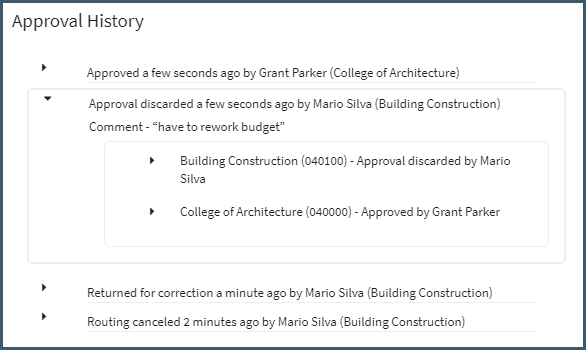
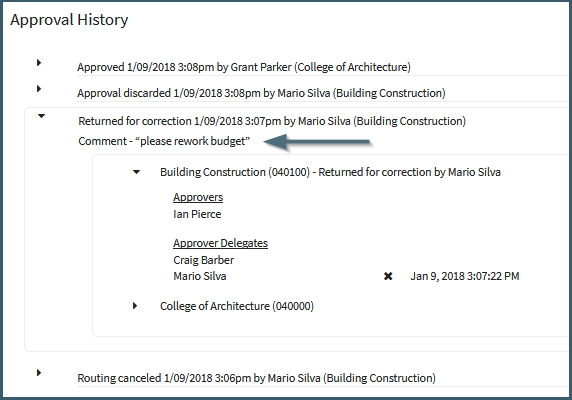
Updated Summit-docs for 2.2.0

diff --git a/docs/releaseNotes.md b/docs/releaseNotes.md
@@ -3,22 +3,22 @@
 - **Approve and Return buttons on Approvals**
     - Separate buttons are now provided for approving or returning an approval.  
     ![Approval Header](images/releaseNotes/approvalHeader.jpg)
-    - **"Approve" button**
+    - **"Approve" button** - [Click for more Info](Approvals/Approving.md#approving-the-proposal)
         -  Now as an approver, to approve you'll click the "Approve" button and click "Approve" in the approval modal that appears.  If you are approving on behalf of 2 or more organizations, you'll need to check the organizations you are approving on behalf of.
-    - **"Return for Correction" button**
+    - **"Return for Correction" button** - [Click for more Info](Approvals/Canceling.md#return-for-correction)
         - Now an approver can send an approval back to the proposal team for correction.  By clicking the "Return For Correction" button, a modal will appear asking for the reason why the approver would like to return the approval back for correction.  Once a comment is written, the "Return for Correction" button will become enabled.  Once pressed, it will take the proposal out of routing and give the proposal team a chance to correct any deficiencies that were noted by the approver. Then once the proposal team is ready, they can put the proposal back into routing for the approvers to review again, then approve/return the approval.
 - **Email Notifications for Approvals**
     - **Before update:** Email notifications went to approvers when a proposal was ready for approval at their stage in the routing chain.
     - **After update:** Email notifications still go out when a proposal is ready to be approved at a specific stage in the routing chain, but also if an approval is canceled everyone that has been previously notified of an approval, will be notified that the approval has been canceled and the reason for the cancelation displayed in the email notification.
-- **Approval History**
+- **Approval History** - [Click for more Info](Approvals/Approving.md#approval-history)
     - All past routing actions will be logged in a new section within the editor and approval called the Approval History.  This section is located in the Proposal Management of the Editor or in the Approval.  The Approval Decisions section will still display, but is only for routing currently being done.
     ![Approval History](images/approvals/Approving_approvalHistory.jpg)
+- **IRB question update**
+    - The IRB question has been modified to now read "Does the work involve human subjects research (e.g., surveys, observation, lab or clinical research, analysis of existing data/specimens)?".  It is still located in the Compliance section of the editor.
+    - The question has also been added to the Initiator screen when going through the Get Started wizard.  This way if the sponsor or prime sponsor has the IRB keyword (mostly NIH related sponsors), as well as having the IRB question answered "Yes" or "Don't Know", an email will be sent to the IRB team to follow-up with the Proposal Team regarding new NIH rules on Human Subjects.
 - **Credit Organization**
     - "Responsible Organization" has been renamed "Credit Organization" in the Proposal Team section of Personnel of the Editor.
     ![Credit Organization](images/releaseNotes/creditOrg.jpg)
-- **IRB question**
-    - The IRB question has been modified to now read "Does the work involve human subjects research (e.g., surveys, observation, lab or clinical research, analysis of existing data/specimens)?".  It is still located in the Compliance section of the editor.
-    - The question has also been added to the Initiator screen when going through the Get Started wizard.  This way if the sponsor or prime sponsor has the IRB keyword (mostly NIH related sponsors), as well as having the IRB question answered "Yes" or "Don't Know", an email will be sent to the IRB team to follow-up with the Proposal Team regarding new NIH rules on Human Subjects.
 <br>
 
 # Release 2.1.0 - September 2017

diff --git a/docs/Approvals/Approving.md b/docs/Approvals/Approving.md
@@ -75,7 +75,7 @@ The file log lists all files attached to the proposal.  The most recent version 
 ![File Log Modal](../images/approvals/AppPro_FileLog.jpg)
 
 ## Approving the Proposal
-Approvers log in to Summit and see a list of proposals waiting for their approval in "Approvals / To Be Approved."  Choosing the Proposal in the Summary Pane will display a read-only view of the basic Proposal details in the Editor. To approve the proposal, the User starts by clicking the green "Approve" button in the top right of the approval.  
+Approvers log in to Summit and see a list of proposals waiting for their approval in "Approvals / To Be Approved."  Choosing the Proposal in the Summary Pane will display a read-only view of the basic Proposal details in the Editor. To approve the proposal, the User starts by clicking the green "Approve" button in the top right of the approval. **[For Instructions on how to Cancel, go Here](Canceling.md)**
 
 ![Approval Buttons](../images/approvals/Approving_buttons.jpg)
 
@@ -136,9 +136,18 @@ In the Proposal Editor, Users can track the approval process in the Approval Dec
 
 # Approval History
 
-The Approval History section logs all past routing actions for a proposal in the Proposal Management section of the Editor or in the Approval under the Approval Decisions section. The Approval Decisions section will still display, but is only for routing currently being done and thus will not be visible if the work is in the Preparing phase.
+The Approval History section logs all past routing actions for a proposal in the Proposal Management section of the Editor or in the Approval under the Approval Decisions section. The Approval Decisions section will still display, but is only for routing currently being done and thus will not be visible if the work is in the Preparing (a work's starting point) phase.
+
+In the image below shows the 4 types of actions that will be shown in the Approval History section.
+
+1. Approved - All approvers have approved the proposal and the status has changed from "In Routing" to "Approved".
+2. Approval discarded -  A user with proposal access, has removed the approval.
+3. Returned for correction - A user with approval access, takes returns an approval back to user's with proposal access.
+4. Routing canceled - A user with proposal access, takes a proposal out of routing.  
 
 ![Approval History](../images/approvals/Approving_approvalHistory.jpg)
+
+When clicking on a specific history, the comment made by the one that committed the action becomes visible.  If you then click again on a specific organization, you can now see the time stamp for approvals or cancellations (as seen below).
 
 ![Approval History Expanded](../images/approvals/Approving_approvalHistoryExpanded.jpg)
 
